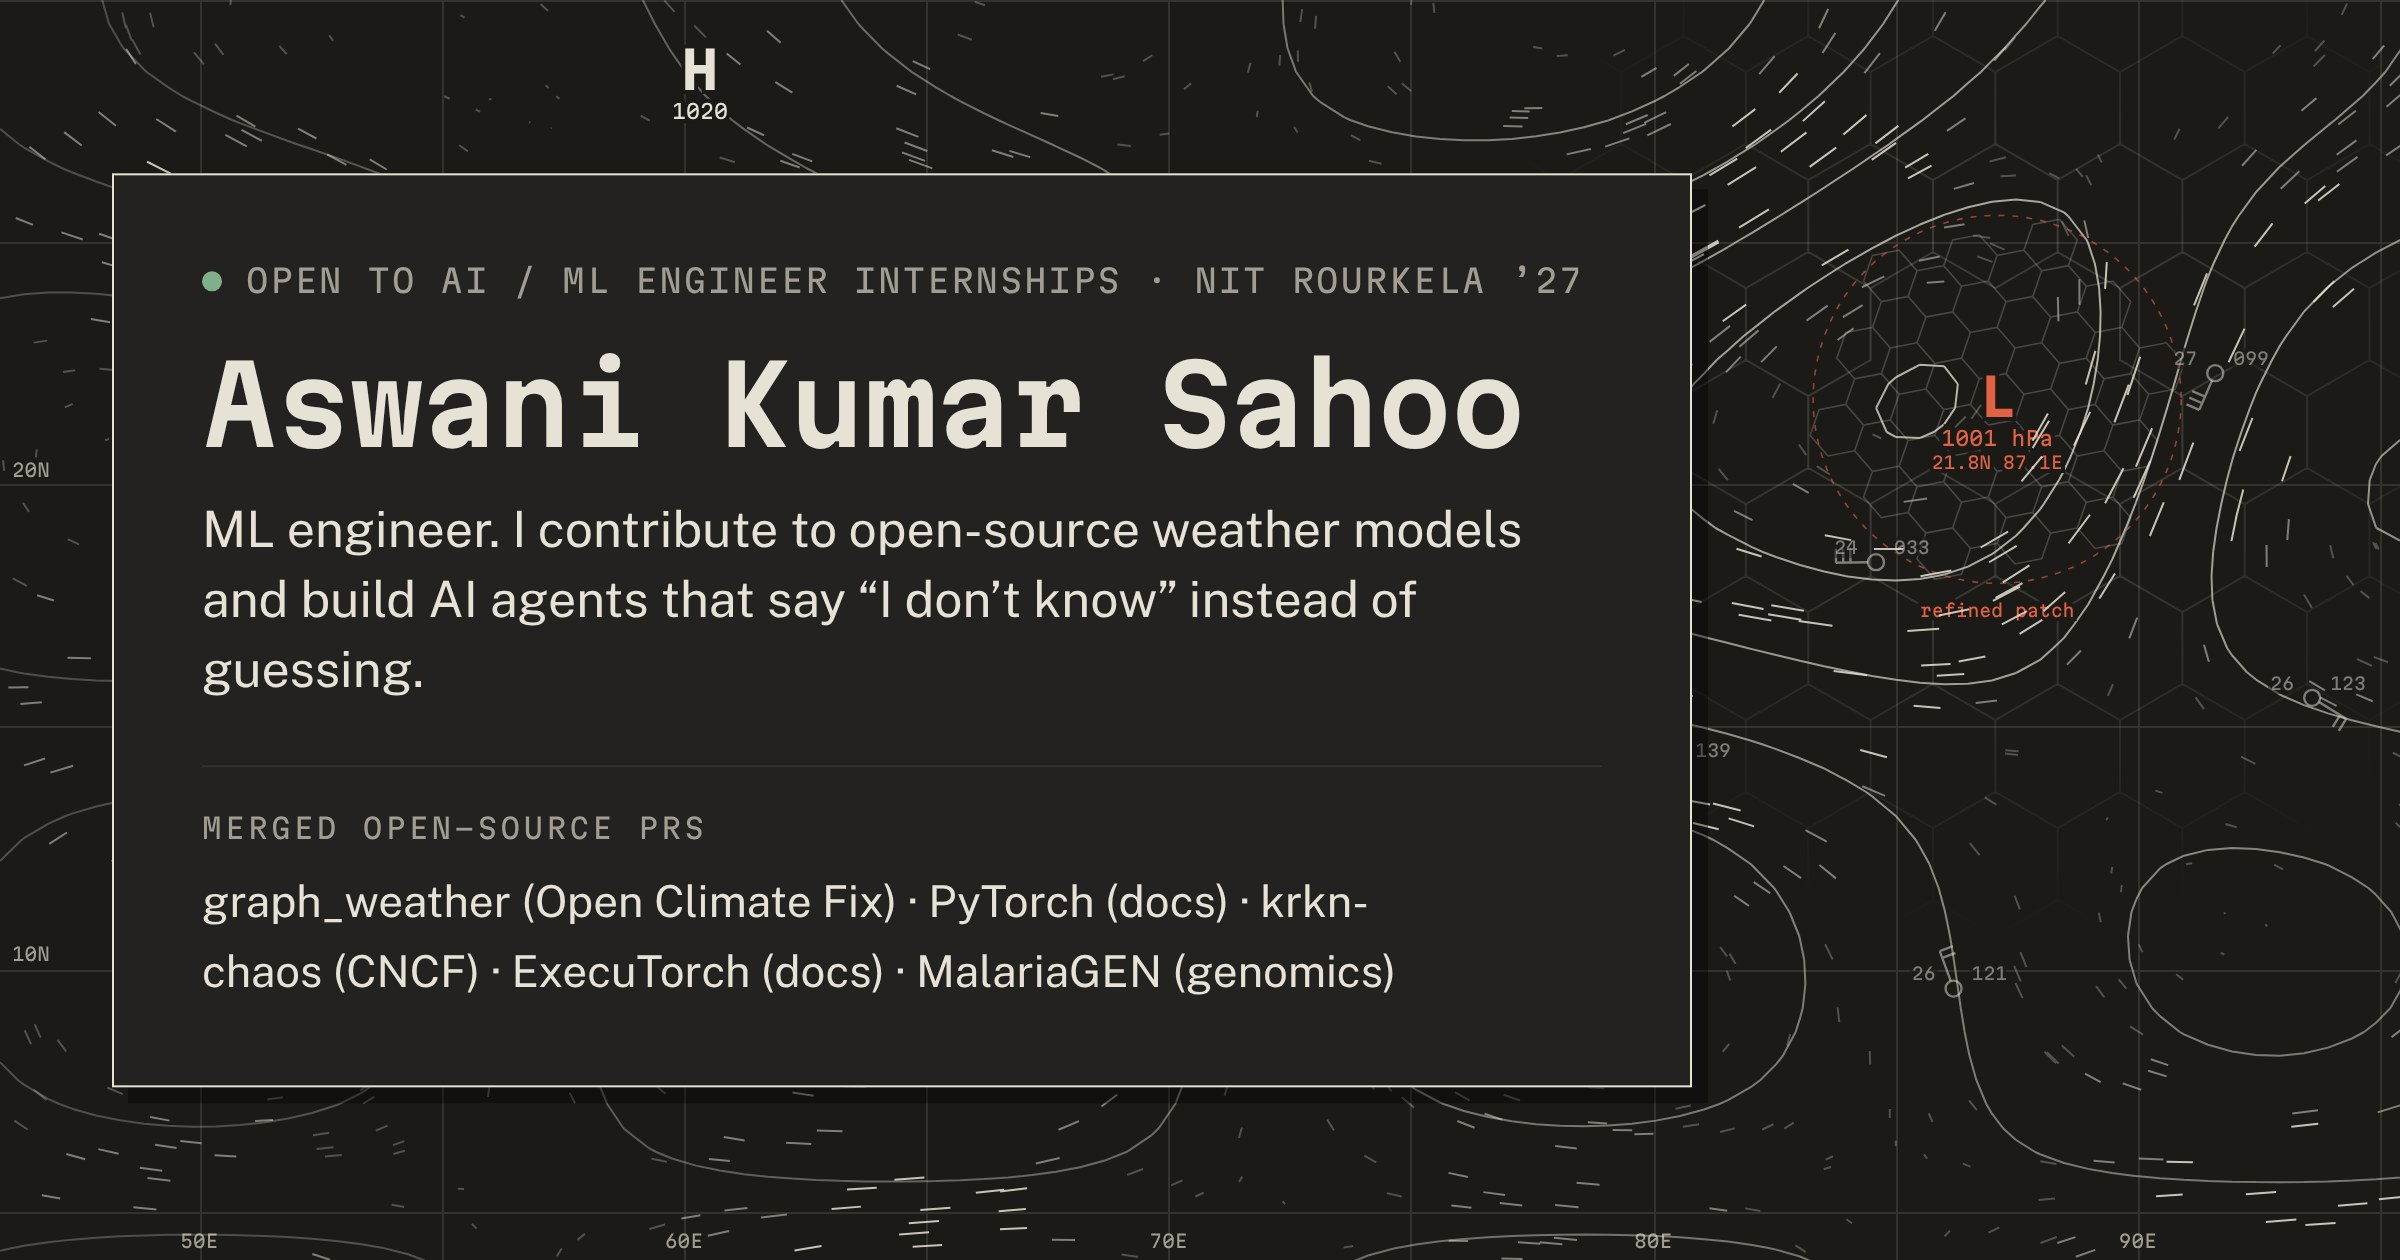
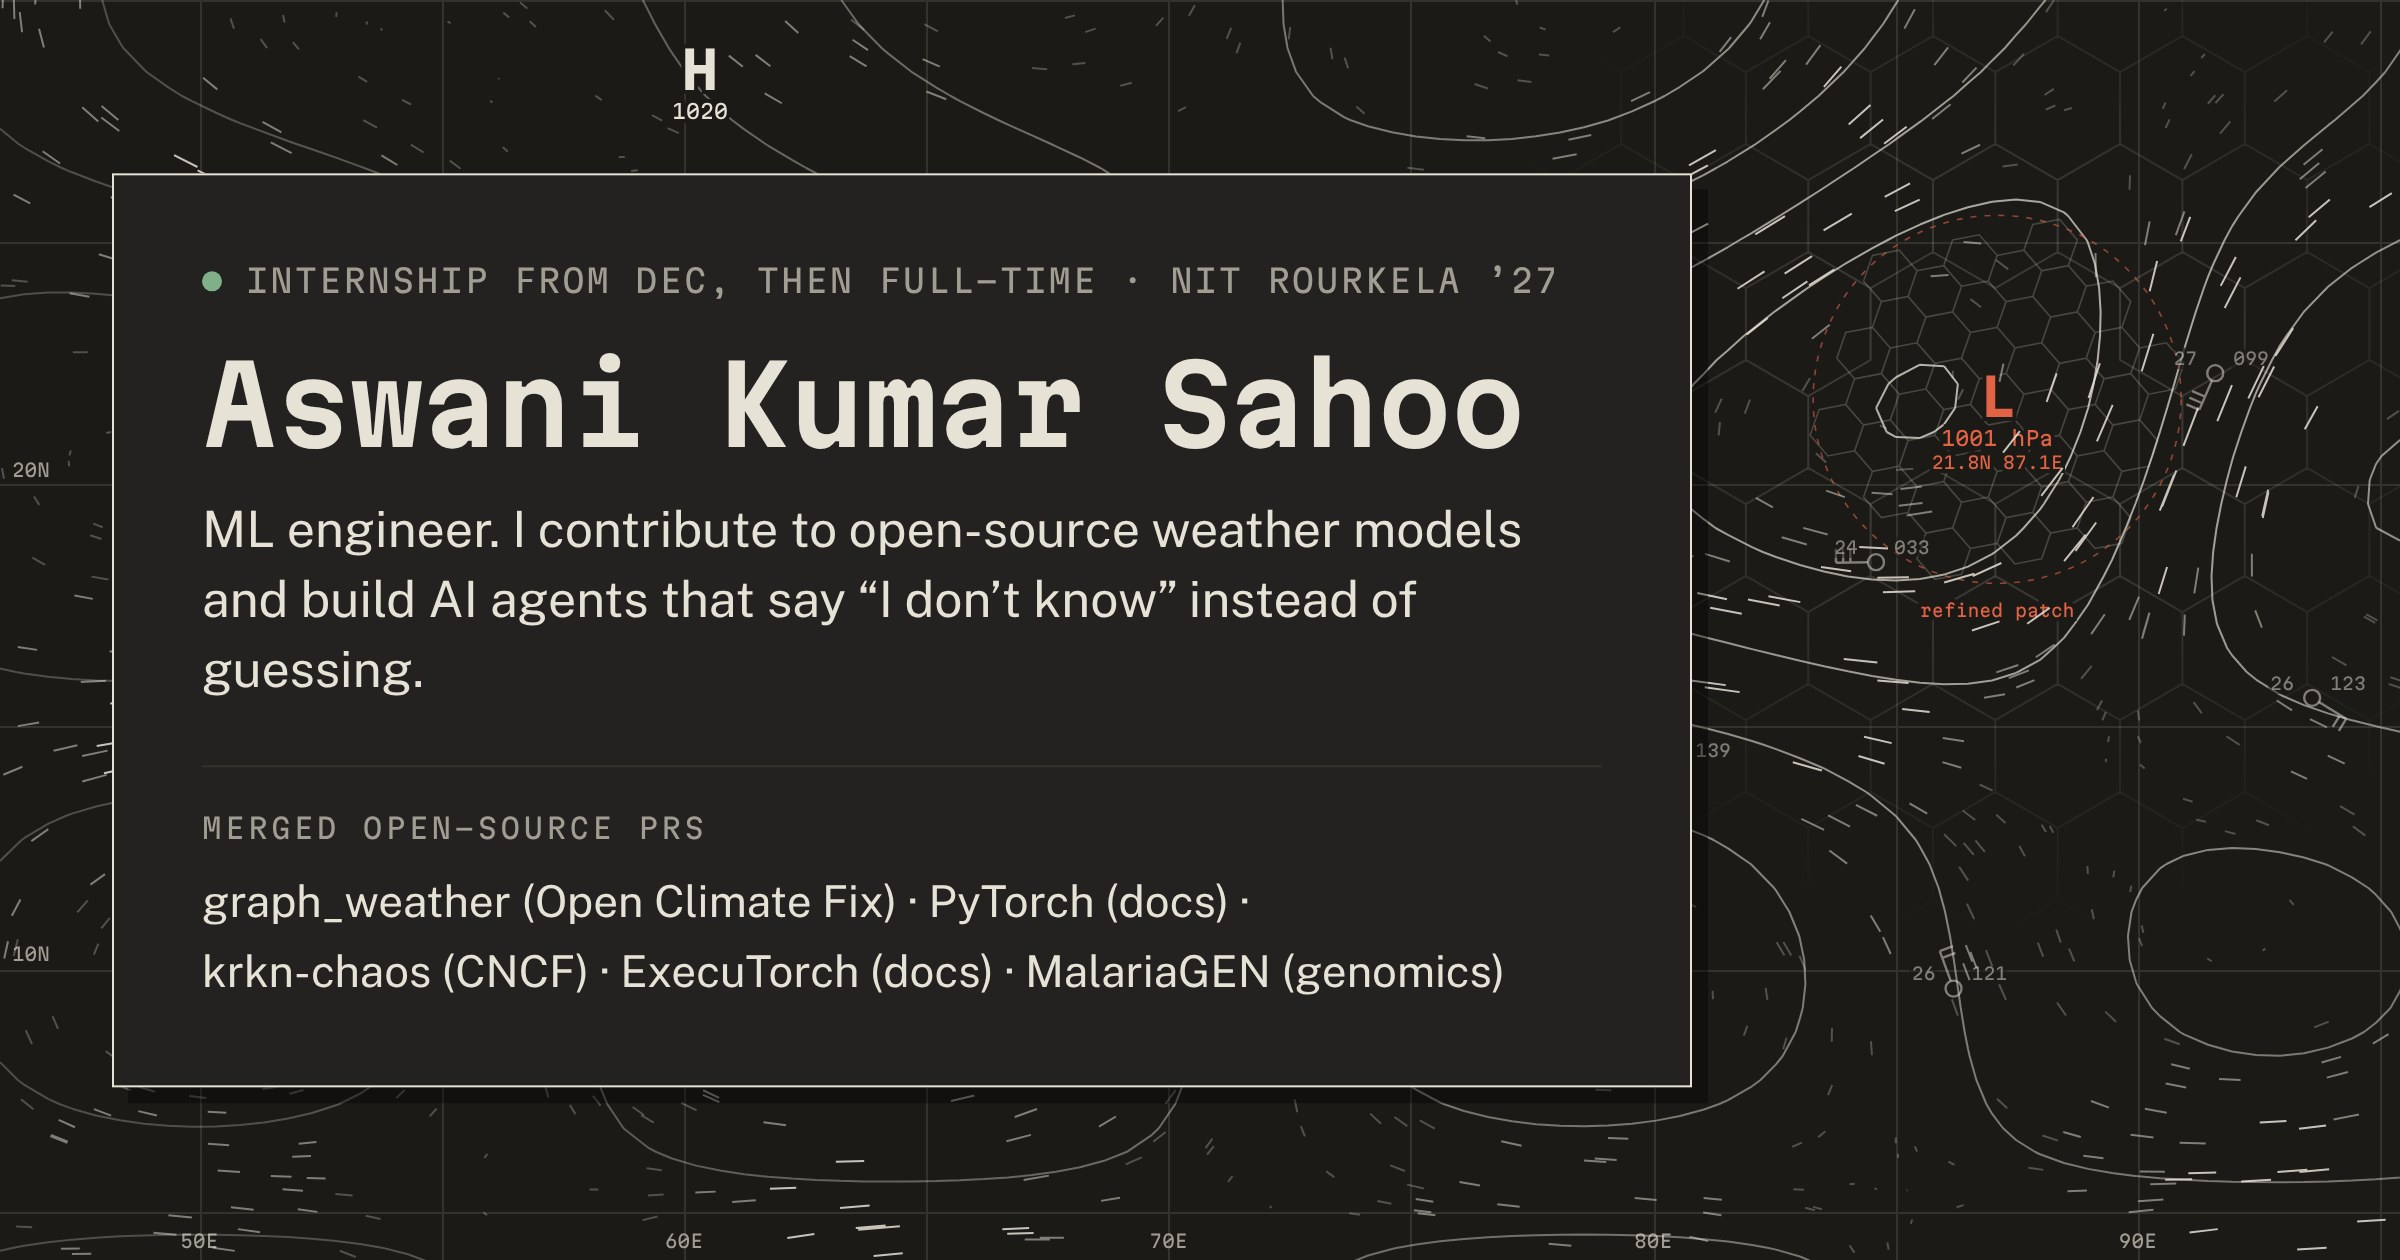
Lead with the weather transformer and complaint search; availability from December (#3)
- Flagships: Climate-Risk Agent, Incident Evidence Compiler, Weather Transformer from Scratch, Complaint Intelligence System. vera-bot and Fairness-Aware Credit Scoring move to More projects, one figure each
- Hero tab: internship from December, then full-time, NIT Rourkela '27. About gives the 6-month window in full
- The two new case studies open on the result their card shows; the latency text states only what was timed
- A result that mentions a test in the singular is no longer filed as a test count
- Link preview re-rendered; org names no longer break at a hyphen

diff --git a/src/data/projects.ts b/src/data/projects.ts
@@ -56,14 +56,13 @@ export const weatherTransformer: Project = {
   repo: `${GH}/weather-transformer-scratch`,
   role: 'Solo',
   summary:
-    'A physics-aware vision transformer for 6-hour ERA5 prediction, with attention written by hand instead of nn.MultiheadAttention, and a physics-informed loss.',
+    'A physics-aware vision transformer with 4.8 million parameters for 6-hour ERA5 prediction, with attention written by hand instead of nn.MultiheadAttention, and a physics-informed loss.',
   bullets: [
     'Every block implemented and unit-tested individually: patch embedding, positional encoding, attention, transformer block, physics loss.',
-    'Evaluated on a 2020 ERA5 test slice against a persistence baseline, the honest floor for short-range forecasts.',
+    'Tested on a held-out 2020 slice of ERA5 against persistence, a forecast that assumes nothing changes in six hours. That is the honest floor for short-range forecasts.',
   ],
   metrics: [
-    { label: 'RMSE improvement over persistence', value: '27%', verifiedAt: '2026-07-19', source: `${GH}/weather-transformer-scratch` },
-    { label: 'parameters', value: '4,805,440', verifiedAt: '2026-09-30', source: `${GH}/weather-transformer-scratch` },
+    { label: 'lower error (RMSE) than a no-change forecast, on the 2020 test year', value: '27%', verifiedAt: '2026-07-19', source: `${GH}/weather-transformer-scratch` },
     { label: 'unit tests', value: '74', verifiedAt: '2026-09-30', source: `${GH}/weather-transformer-scratch` },
   ],
   stack: ['PyTorch', 'xarray', 'zarr', 'ERA5 / WeatherBench2'],
@@ -240,7 +239,7 @@ export const retrievalLatency = {
   // README (commit ea68a72) line 71: "Ran on 200K complaints using a T4 GPU on Google Colab."; the table
   // starts at line 96: "| Vector (FAISS) | 35 | 41 |". No source size is stated, so none is printed.
   summary:
-    'CFPB consumer complaints, 200K processed. p50 / p95 in milliseconds. Vector search is fast; BM25 and reranking buy quality at real latency cost.',
+    'Timed on 200K complaints on a T4 GPU in Google Colab, in milliseconds. Vector search answers in tens of milliseconds; BM25, hybrid and reranked search take 0.9 to 1.4 seconds at the 95th percentile.',
   verifiedAt: '2026-09-30',
   rows: [
     { method: 'Vector (FAISS)', p50: 35, p95: 41 },
@@ -298,6 +297,37 @@ export const stations: Station[] = [
     links: [repoLink(IEC), { label: 'sealed-run protocol', url: `${IEC}/blob/main/docs/evaluation/re2-tt-sealed-protocol.md` }],
   },
   {
+    slug: 'weather-transformer-scratch',
+    name: 'Weather Transformer from Scratch',
+    domain: 'Scientific ML · forecasting',
+    summary: 'Predicts the weather six hours ahead from ERA5 data with a vision transformer. Every block, attention included, is written and unit-tested by hand, with a physics-informed loss.',
+    repo: `${GH}/weather-transformer-scratch`,
+    status: { label: 'evaluated', kind: 'plain' },
+    tests: { label: 'unit tests', value: '74', verifiedAt: '2026-09-30', source: `${GH}/weather-transformer-scratch` },
+    metrics: [
+      { label: 'RMSE over persistence', value: '27%', verifiedAt: '2026-07-19', source: `${GH}/weather-transformer-scratch` },
+      { label: 'parameters', value: '4,805,440', verifiedAt: '2026-09-30', source: `${GH}/weather-transformer-scratch` },
+    ],
+    stack: ['PyTorch', 'xarray', 'ERA5'],
+    links: [repoLink(`${GH}/weather-transformer-scratch`)],
+  },
+  {
+    slug: 'complaint-intelligence-system',
+    name: 'Complaint Intelligence System',
+    domain: 'LLM · retrieval',
+    summary: 'Searches 200K US consumer complaints from the CFPB database and groups them into topics. It compares two embedding models (MiniLM, BGE) and two topic models (KMeans, BERTopic), and times four search methods against each other.',
+    repo: `${GH}/complaint-intelligence-system`,
+    status: { label: 'benchmarked', kind: 'plain' },
+    // README (commit ea68a72) line 3: "An NLP pipeline that processes 200K consumer complaints from the CFPB database".
+    // The earlier "200K+" and "15M+ source" are not in the repo, so both went on 2026-09-30.
+    metrics: [
+      { label: 'CFPB complaints processed', value: '200K', verifiedAt: '2026-09-30', source: `${GH}/complaint-intelligence-system#readme` },
+      { label: 'vector search p95', value: '41 ms', verifiedAt: '2026-09-30', source: `${GH}/complaint-intelligence-system#retrieval-latency` },
+    ],
+    stack: ['FAISS', 'Sentence-Transformers', 'BERTopic', 'Streamlit'],
+    links: [repoLink(`${GH}/complaint-intelligence-system`)],
+  },
+  {
     slug: 'vera-bot',
     name: 'vera-bot',
     domain: 'LLM product · messaging',
@@ -342,37 +372,6 @@ export const stations: Station[] = [
     metrics: [],
     stack: ['SciBERT', 'scikit-learn', 'Europe PMC API'],
     links: [repoLink(`${GH}/biodiversity-publication-analyzer`)],
-  },
-  {
-    slug: 'weather-transformer-scratch',
-    name: 'weather-transformer-scratch',
-    domain: 'Scientific ML · forecasting',
-    summary: 'Physics-aware vision transformer for 6-hour ERA5 prediction, every block written and tested by hand.',
-    repo: `${GH}/weather-transformer-scratch`,
-    status: { label: 'evaluated', kind: 'plain' },
-    tests: { label: 'unit tests', value: '74', verifiedAt: '2026-09-30', source: `${GH}/weather-transformer-scratch` },
-    metrics: [
-      { label: 'RMSE over persistence', value: '27%', verifiedAt: '2026-07-19', source: `${GH}/weather-transformer-scratch` },
-      { label: 'parameters', value: '4,805,440', verifiedAt: '2026-09-30', source: `${GH}/weather-transformer-scratch` },
-    ],
-    stack: ['PyTorch', 'xarray', 'ERA5'],
-    links: [repoLink(`${GH}/weather-transformer-scratch`)],
-  },
-  {
-    slug: 'complaint-intelligence-system',
-    name: 'complaint-intelligence-system',
-    domain: 'LLM · retrieval',
-    summary: 'RAG and NLP benchmark over CFPB consumer complaints: MiniLM against BGE embeddings, KMeans against BERTopic, and four retrieval modes timed against each other.',
-    repo: `${GH}/complaint-intelligence-system`,
-    status: { label: 'benchmarked', kind: 'plain' },
-    // README (commit ea68a72) line 3: "An NLP pipeline that processes 200K consumer complaints from the CFPB database".
-    // The earlier "200K+" and "15M+ source" are not in the repo, so both went on 2026-09-30.
-    metrics: [
-      { label: 'CFPB complaints processed', value: '200K', verifiedAt: '2026-09-30', source: `${GH}/complaint-intelligence-system#readme` },
-      { label: 'vector search p95', value: '41 ms', verifiedAt: '2026-09-30', source: `${GH}/complaint-intelligence-system#retrieval-latency` },
-    ],
-    stack: ['FAISS', 'Sentence-Transformers', 'BERTopic', 'Streamlit'],
-    links: [repoLink(`${GH}/complaint-intelligence-system`)],
   },
   {
     slug: 'llama-task-agent',

diff --git a/src/data/work.ts b/src/data/work.ts
@@ -48,19 +48,17 @@ export const featured: Featured[] = [
     metric: figure('incident-evidence-compiler', 'held-out top-1', 'root cause ranked first on 90 unseen incidents, by the deterministic engine'),
     tags: ['FastAPI', 'PostgreSQL', 'Prometheus'],
   }),
-  card('vera-bot', {
-    name: 'vera-bot',
-    outcome: 'Merchant-messaging engine for the magicpin Vera AI Challenge. Code decides what is true; the LLM only rewrites checked facts.',
-    metric: figure('vera-bot', 'judge-replica', "correlation of its offline judge with the contest's official scores, 15 cases"),
-    tags: ['FastAPI', 'Vertex AI', 'Cloud Run'],
-    isPrivate: true,
+  card('weather-transformer-scratch', {
+    name: 'Weather Transformer from Scratch',
+    outcome: 'Predicts the weather six hours ahead from ERA5 data. Every block, attention included, is written and unit-tested by hand.',
+    metric: figure('weather-transformer-scratch', 'RMSE over persistence', 'lower error (RMSE) than a no-change forecast, on the 2020 test year'),
+    tags: ['PyTorch', 'xarray', 'ERA5'],
   }),
-  card('fairness-credit-risk', {
-    name: 'Fairness-Aware Credit Scoring',
-    outcome: 'Credit scoring with standard fairness fixes, each tested against a tuned baseline on identical seeded splits. The result was a null, and I published it.',
-    // The same finding as "0 of 4", led by what was done: four methods, none better than the baseline.
-    metric: figure('fairness-credit-risk', 'alternatives beat', 'tested on identical seeded splits; none beat the tuned baseline beyond noise', '4 methods'),
-    tags: ['AIF360', 'Fairlearn', 'FastAPI'],
+  card('complaint-intelligence-system', {
+    name: 'Complaint Intelligence System',
+    outcome: 'Searches 200K US consumer complaints and groups them into topics, comparing two embedding models and four search methods.',
+    metric: figure('complaint-intelligence-system', 'vector search p95', '95th-percentile vector search time over 200K complaints'),
+    tags: ['FAISS', 'Sentence-Transformers', 'BERTopic'],
   }),
 ];
 
@@ -69,6 +67,7 @@ export const others: Station[] = stations.filter((s) => !featured.some((f) => f.
 
 /** The one figure a listed project shows, in plain words, where it has one. */
 export const listFigure: Record<string, Metric> = {
-  'weather-transformer-scratch': figure('weather-transformer-scratch', 'RMSE over persistence', 'lower RMSE than a no-change forecast, on the 2020 test year'),
-  'complaint-intelligence-system': figure('complaint-intelligence-system', 'vector search p95', '95th-percentile vector search time over 200K complaints'),
+  'vera-bot': figure('vera-bot', 'judge-replica', "correlation of its offline judge with the contest's official scores, 15 cases"),
+  // The same finding as the case study's "0 of 4": three fairness fixes and a tabular foundation model.
+  'fairness-credit-risk': figure('fairness-credit-risk', 'alternatives beat', 'methods beat the tuned baseline by more than noise'),
 };

diff --git a/src/data/profile.ts b/src/data/profile.ts
@@ -8,7 +8,10 @@ export const profile = {
   title: 'ML / AI systems engineer',
   // The status tab on the hero card. Keep it short and true; update it when it changes.
   // The school goes here too: the first screen should say where the degree is from.
-  availability: 'Open to AI / ML engineer internships · NIT Rourkela ’27',
+  // At most about 55 characters, or the tab takes two lines on a desktop card.
+  availability: 'Internship from Dec, then full-time · NIT Rourkela ’27',
+  // The same in full, on the About page.
+  availabilityDetail: 'Open to a 6-month internship from December 2026, in my final semester, and to full-time roles after that',
   // Served from public/. The résumé buttons appear only once this file exists (src/lib/resume.ts).
   resume: '/aswani-kumar-sahoo-resume.pdf',
   // The hero's one-line pitch under the name, also the start of every page's meta description.

diff --git a/src/lib/evidence.ts b/src/lib/evidence.ts
@@ -12,8 +12,11 @@ export const monthYear = (iso: string): string => {
   return `${name} ${y}`;
 };
 
-/** Test counts and live status change often; everything else is pinned to its source. */
-export const isFastMoving = (label: string): boolean => /\btests?\b|test functions|\blive\b/i.test(label);
+/**
+ * Test counts and live status change often; everything else is pinned to its source. Test counts
+ * match in the plural only: a result can mention a test ("the 2020 test year", "trend test").
+ */
+export const isFastMoving = (label: string): boolean => /\btests\b|test functions|\blive\b/i.test(label);
 
 export function evidenceLabel(source: string): string {
   if (!source) throw new Error('Every number needs a source');

diff --git a/src/data/cases.ts b/src/data/cases.ts
@@ -348,13 +348,15 @@ const wtCase: CaseStudy = {
 };
 
 const cis = station('complaint-intelligence-system');
+// The case opens on the timing result its project card shows; the 200K is in the summary.
+const cisP95 = need(cis.metrics.find((m) => m.label.startsWith('vector search p95')), 'complaint search p95');
 const cisCase: CaseStudy = {
   slug: cis.slug,
   station: cis,
   name: cis.name,
   summary: cis.summary,
   status: { label: cis.status.label, kind: cis.status.kind },
-  metrics: cis.metrics,
+  metrics: [{ ...cisP95, label: '95th-percentile vector search time over 200K complaints' }],
   evaluation: {
     text: [retrievalLatency.summary],
     table: {
